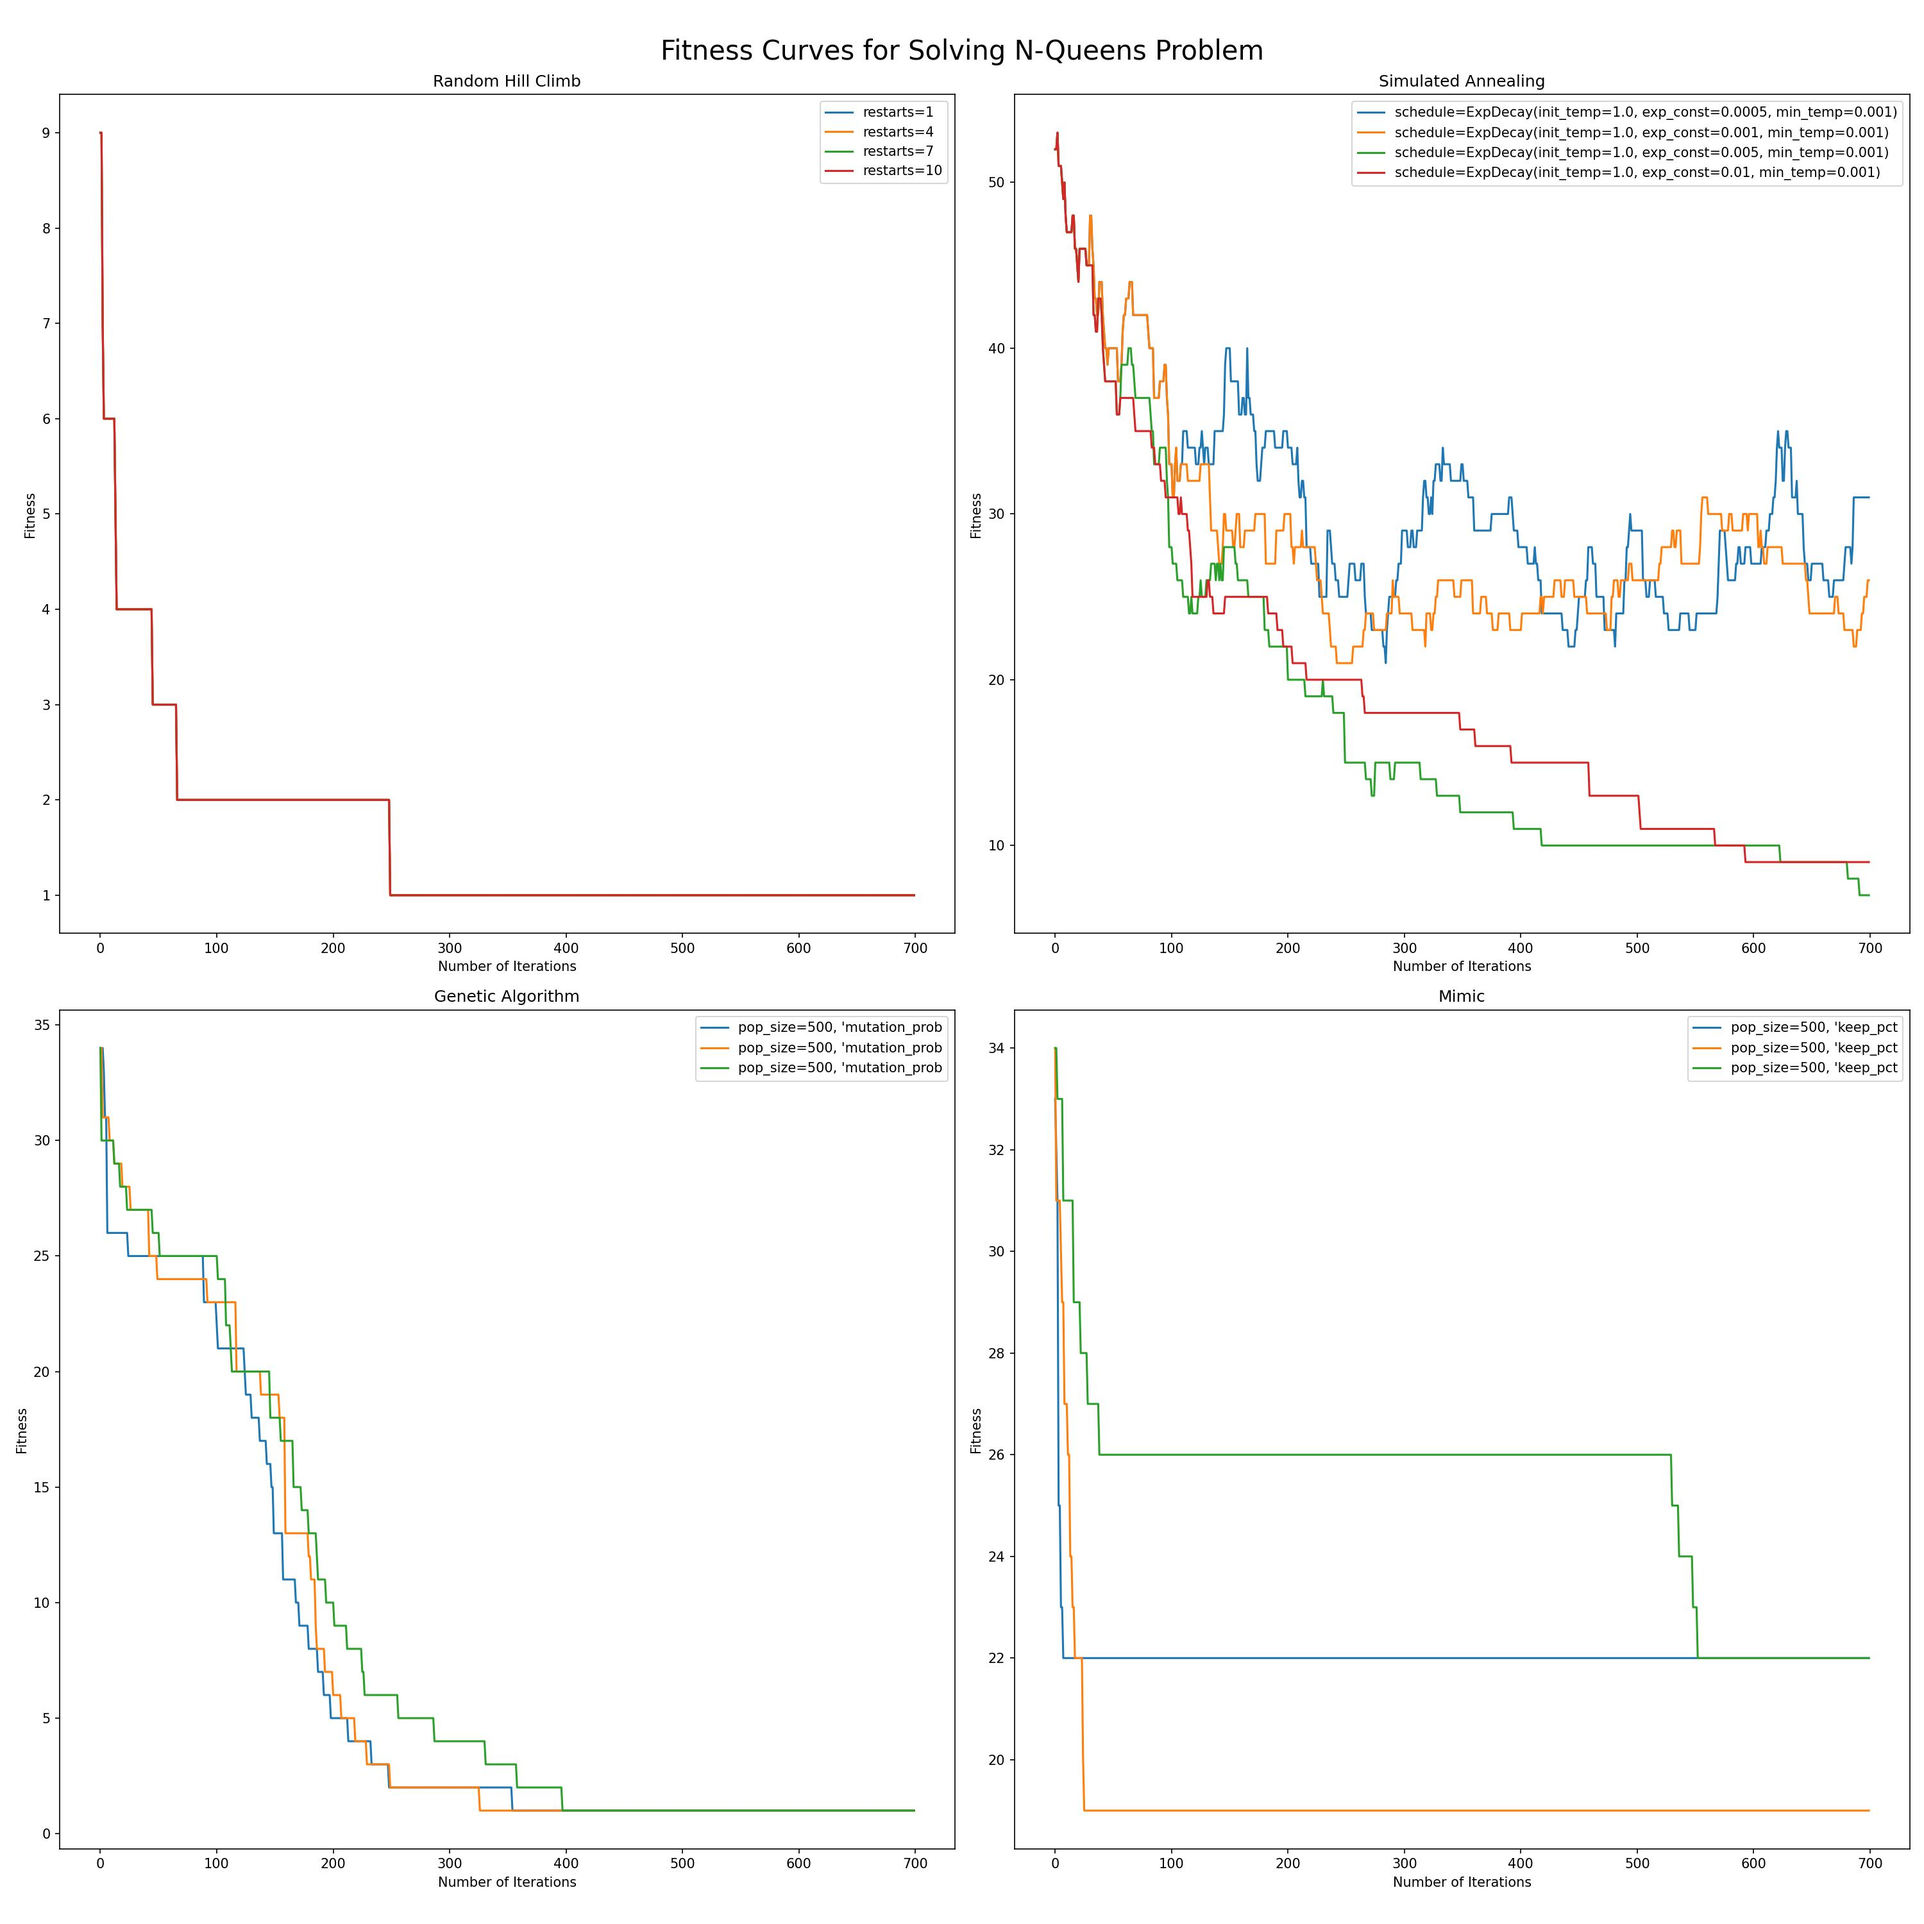
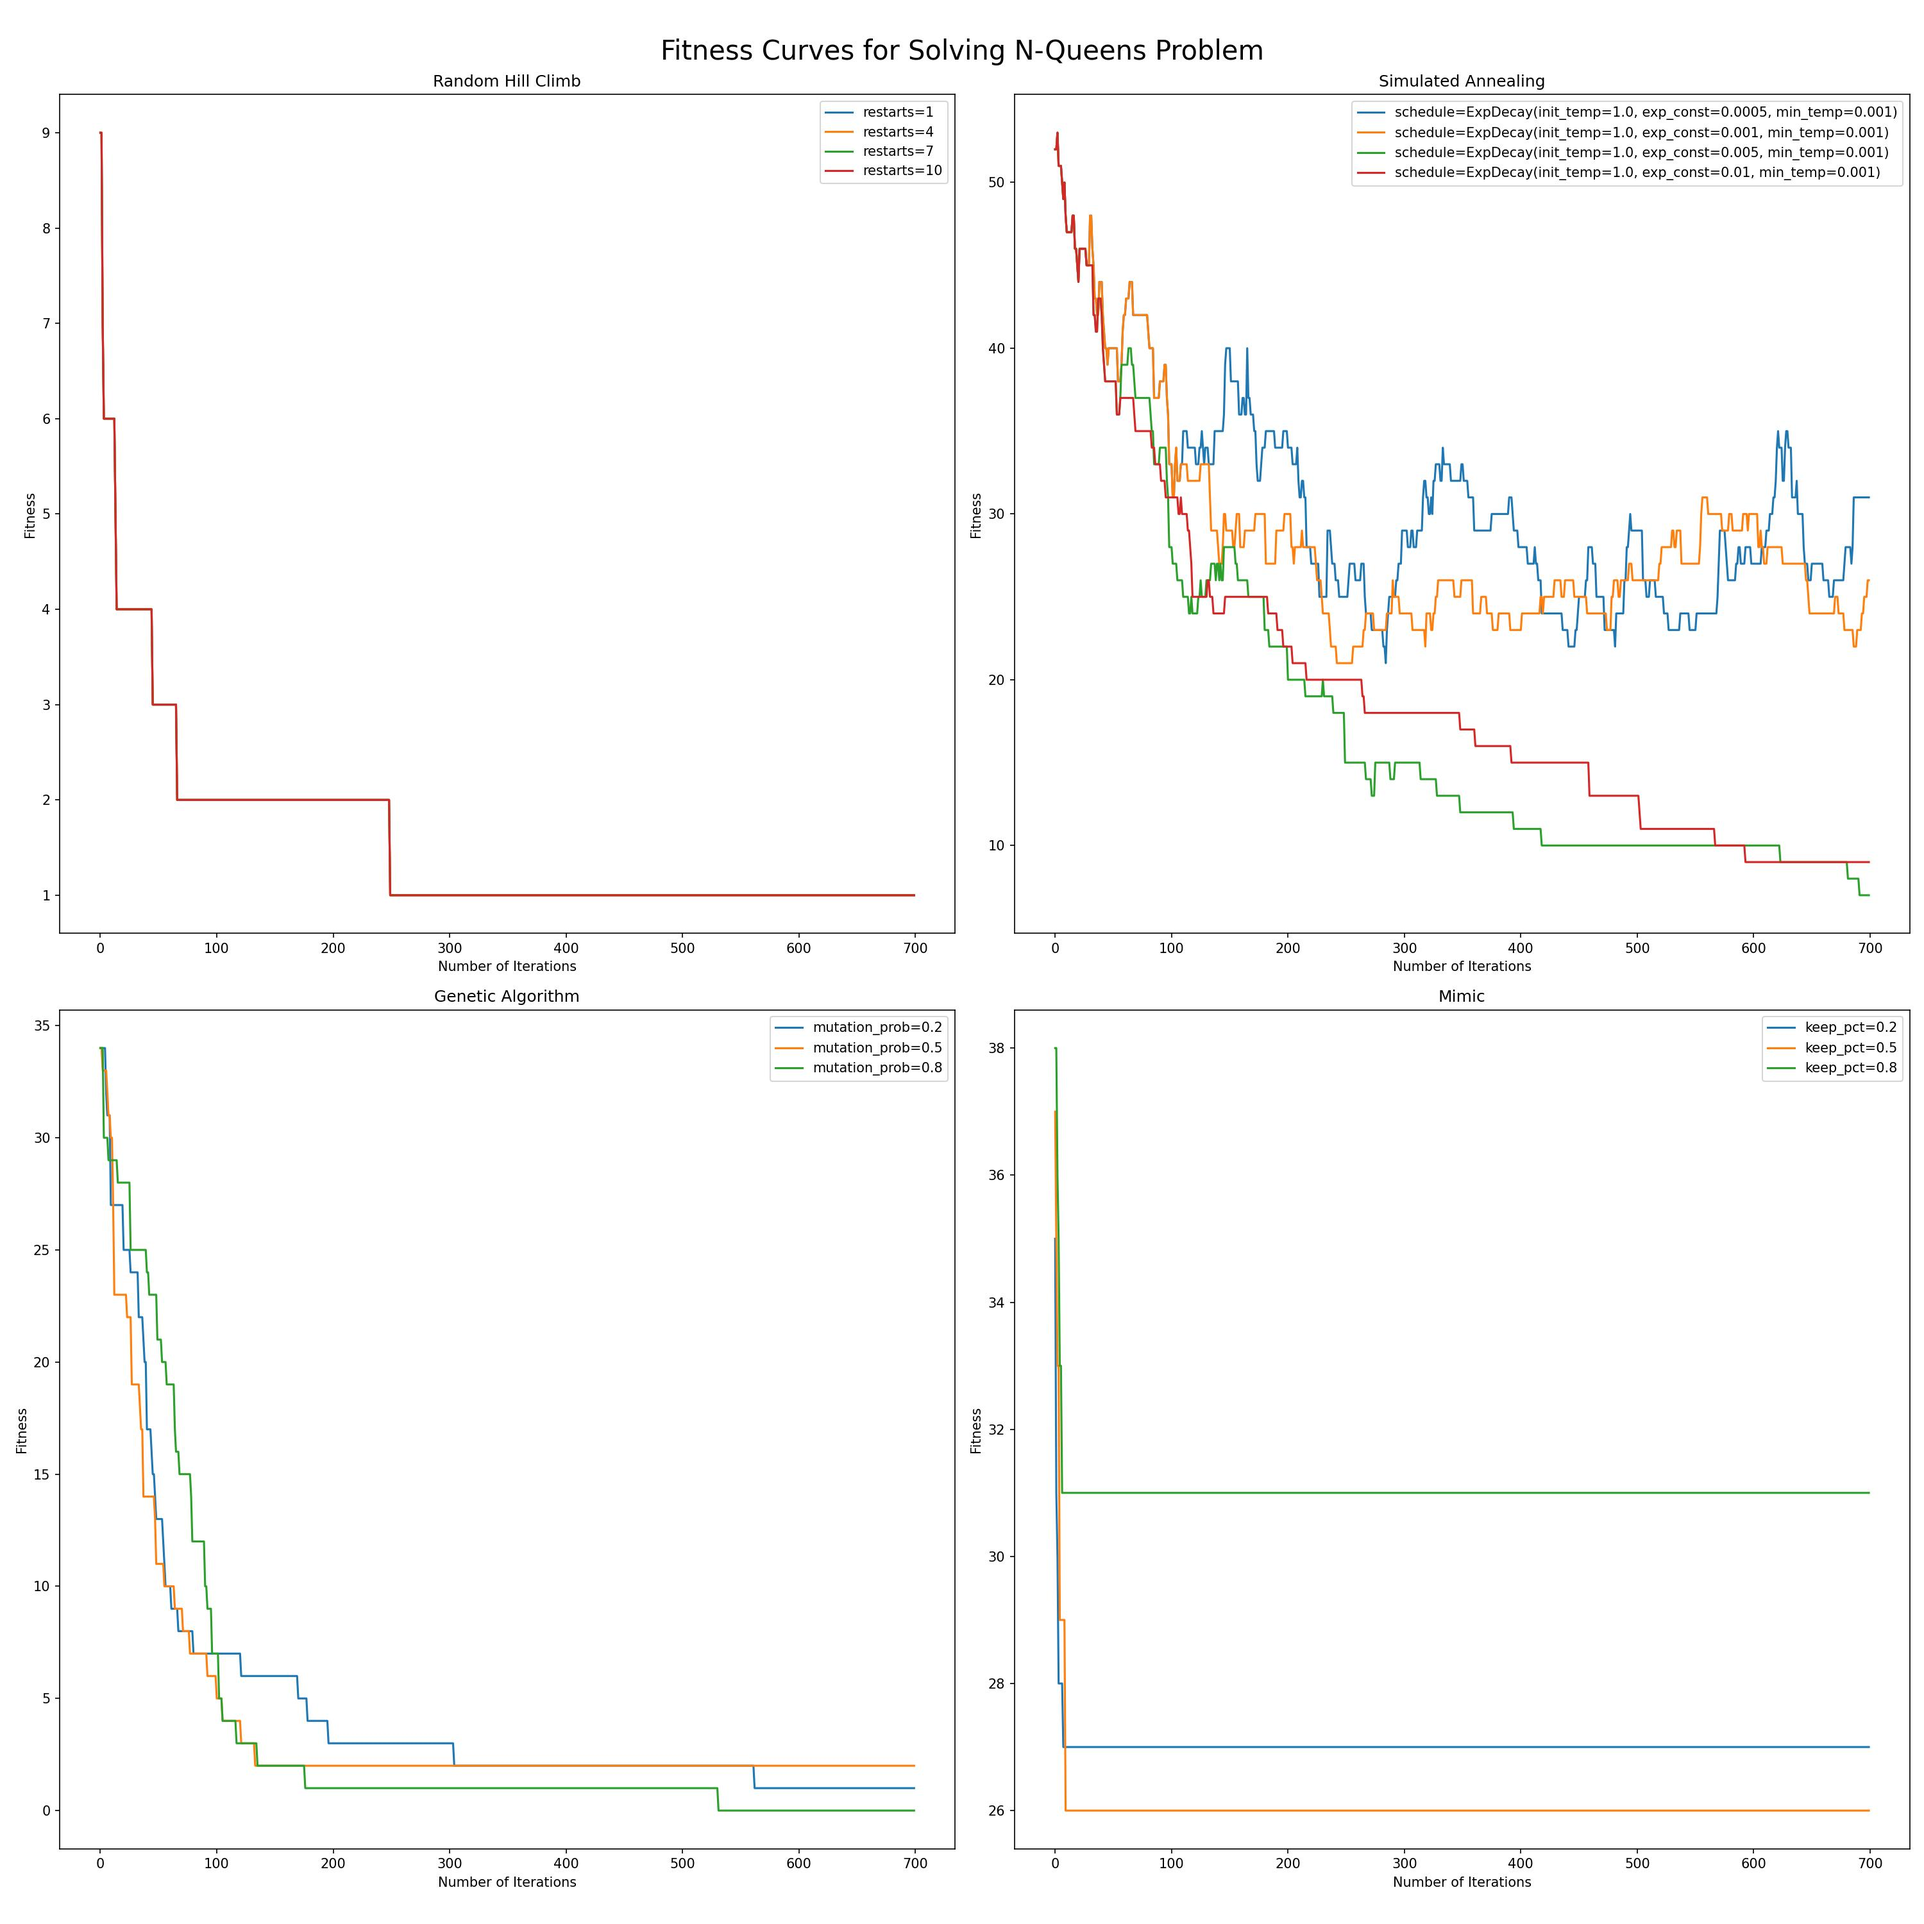
update graph

diff --git a/randomized_optimization/src/config/config.py b/randomized_optimization/src/config/config.py
@@ -13,8 +13,8 @@ ALGORITHM_HYPERPARAMS_MAPPING = {  # type: ignore
         dict(schedule=mlrose.ExpDecay(exp_const=i))
         for i in [0.0005, 0.001, 0.005, 0.01]
     ],
-    "Genetic Algorithm": [dict(mutation_prob=i) for i in [0.2, 0.5, 0.8]],
-    "Mimic": [dict(keep_pct=i) for i in [0.2, 0.5, 0.8]],
+    "Genetic Algorithm": [dict(mutation_prob=i) for i in [0.05, 0.2, 0.5, 0.8]],
+    "Mimic": [dict(keep_pct=i) for i in [0.05, 0.2, 0.5, 0.8]],
 }
 
 PROBLEM_PARAMS_MAPPING = {
@@ -72,16 +72,5 @@ NN_DEFAULT_PARAMS = dict(
     learning_rate=0.0001,
     early_stopping=True,
     clip_max=5,
-    max_attempts=100,
+    max_attempts=1000,
 )
-NN_TUNED_PARAMS = dict(
-    hidden_nodes=[32, 16],
-    activation="relu",
-    max_iters=1000,
-    bias=True,
-    is_classifier=True,
-    learning_rate=0.0001,
-    early_stopping=True,
-    clip_max=5,
-    max_attempts=100,
-)  # type: ignore

diff --git a/randomized_optimization/src/main.py b/randomized_optimization/src/main.py
@@ -58,7 +58,7 @@ def discrete_problem_analysis(problem_name):
             _, _, _ = solver(
                 problem,
                 algorithm,
-                params_set=ALGORITHM_HYPERPARAMS_MAPPING[algorithm][1],
+                params_set=ALGORITHM_HYPERPARAMS_MAPPING[algorithm][2],
             )
             end_time = time.perf_counter()
             walltime_map[algorithm].append(end_time - start_time)
@@ -79,7 +79,7 @@ def discrete_problem_analysis(problem_name):
     _, (ax1, ax2) = plt.subplots(1, 2, figsize=(20, 10))
     plot_discrete_problem_scalability(walltime_map, ax1)
     plot_discrete_problem_evals_per_iter_chart(evals_per_iter_map, ax2)
-    plt.title(f"Scalability for Solving {problem_name}")
+    plt.suptitle(f"Scalability for Solving {problem_name}")
     plt.savefig(f"./reports/figures/{problem_name}_scalability.jpg", dpi=150)
 
 
